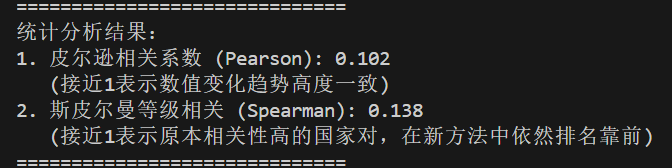
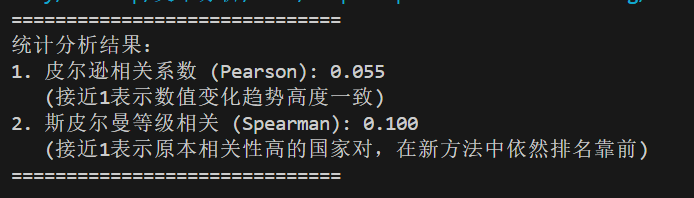
finish again

diff --git a/step2 top-k and word embedding/difference.py b/step2 top-k and word embedding/difference.py
@@ -1,0 +1,74 @@
+import pandas as pd
+import numpy as np
+import matplotlib.pyplot as plt
+import seaborn as sns
+import os
+
+# ================= 1. 文件路径配置 =================
+# 请替换为你实际生成的两个 Excel 文件路径
+# 1. 减数 (BERT / 新方法)
+file_bert = r'C:\Users\Andy\Desktop\文本分析\GCPS\step2 top-k and word embedding\bert\Task2_BERT_Similarity.xlsx' 
+# 2. 被减数 (Keyword / 旧方法)
+file_keyword = r'C:\Users\Andy\Desktop\文本分析\GCPS\step2 top-k and word embedding\keyword_based_cosine_weighted\Task2_Weighted_Cosine_Similarity.xlsx'
+
+# 检查文件是否存在
+if not os.path.exists(file_bert) or not os.path.exists(file_keyword):
+    print("错误：找不到输入文件，请检查路径。")
+    print(f"BERT路径: {file_bert}")
+    print(f"Keyword路径: {file_keyword}")
+    exit()
+
+# ================= 2. 读取与对齐数据 =================
+print("正在读取数据...")
+df_bert = pd.read_excel(file_bert, index_col=0)
+df_kw = pd.read_excel(file_keyword, index_col=0)
+
+# 确保两个矩阵的国家顺序完全一致
+# 取交集
+common_countries = df_bert.index.intersection(df_kw.index)
+# 重新排序和筛选
+df_bert = df_bert.loc[common_countries, common_countries]
+df_kw = df_kw.loc[common_countries, common_countries]
+
+print(f"共对齐 {len(common_countries)} 个国家的数据。")
+
+# ================= 3. 计算差异矩阵 =================
+# 公式：Diff = BERT - Keyword
+# 正值(红)：BERT认为更相似 (语义关联 > 字面关联)
+# 负值(蓝)：Keyword认为更相似 (字面关联 > 语义关联)
+df_diff = df_bert - df_kw
+
+# 保存差异矩阵数据
+df_diff.to_excel('Task3_Difference_Matrix.xlsx')
+print("差异矩阵已保存为: Task3_Difference_Matrix.xlsx")
+
+# ================= 4. 绘制“差值”热力图 =================
+plt.figure(figsize=(12, 10))
+plt.rcParams['font.sans-serif'] = ['SimHei']  # 解决中文显示
+plt.rcParams['axes.unicode_minus'] = False    # 解决负号显示
+
+# 设定颜色映射
+# cmap='RdBu_r': Red-Blue-Reversed。
+# 红色 = 正值 (High)，蓝色 = 负值 (Low)，白色 = 0
+# center=0: 强制让白色对应 0 值，确保红蓝分界准确
+# vmin/vmax: 设定范围，建议设为对称，比如 -0.3 到 0.3，这样颜色更鲜艳
+max_val = max(abs(df_diff.min().min()), abs(df_diff.max().max()))
+bound = max_val * 1.0 # 稍微留点余地，或者直接手动指定如 0.4
+
+sns.heatmap(df_diff, 
+            annot=True,       # 显示数值
+            fmt='.2f',        # 保留两位小数
+            cmap='RdBu_r',    # 红蓝配色 (红正蓝负)
+            center=0,         # 关键参数：以0为中心
+            vmin=-bound,      # 最小值 (蓝色极值)
+            vmax=bound,       # 最大值 (红色极值)
+            square=True,      # 强制正方形格子
+            linewidths=0.5)   # 格子间距
+
+plt.title('语义增益热力图 (BERT相似度 - 关键词相似度)\n红色=语义关联更强 | 蓝色=字面重合更多', fontsize=15)
+plt.tight_layout()
+
+output_img = 'Task3_Difference_Heatmap.png'
+plt.savefig(output_img, dpi=300)
+print(f"图表已保存为: {output_img}")
+plt.savefig(r"C:\Users\Andy\Desktop\文本分析\GCPS\step2 top-k and word embedding\Task3_Difference_Heatmap.png", dpi=300)

diff --git a/step2 top-k and word embedding/bert/Bert.py b/step2 top-k and word embedding/bert/Bert.py
@@ -20,7 +20,7 @@ print(f"检测到 {len(files)} 个国家文件")
 model = SentenceTransformer('sentence-transformers/paraphrase-multilingual-MiniLM-L12-v2')
 
 # ================= 3. 权重系数（High/Low 调整） =================
-HIGH_MULTIPLIER = 1.3    # High_DF 的权重增益
+HIGH_MULTIPLIER = 1.5    # High_DF 的权重增益
 LOW_MULTIPLIER  = 0.7    # Low_DF 的权重衰减
 
 # ================= 4. 生成国家文本 =================
@@ -83,12 +83,12 @@ plt.rcParams['axes.unicode_minus'] = False
 
 # --- 修改重点 ---
 # 添加 vmin=0 和 vmax=1 以固定颜色条范围为 0 到 1
-sns.heatmap(df_sim, annot=True, cmap='RdYlBu_r', fmt=".2f", vmin=0.5, vmax=1)
+sns.heatmap(df_sim, annot=True, cmap='RdYlBu_r', fmt=".2f", vmin=0, vmax=1)
 # ----------------
 
-plt.title("国家政策语义相似度（BERT + Top-K 关键词 + High/Low 加权）")
+plt.title("国家政策语义相似度（BERT + Top-K 关键词）")
 plt.tight_layout()
-plt.savefig(r"C:\Users\Andy\Desktop\文本分析\GCPS\step2 top-k and word embedding\bert\Task3_BERT_Heatmap  2.png")
+plt.savefig(r"C:\Users\Andy\Desktop\文本分析\GCPS\step2 top-k and word embedding\bert\Task3_BERT_Heatmap.png")
 print("[成功] 热力图保存为 Task3_BERT_Heatmap.png")
 
 print("\n任务完成！")
